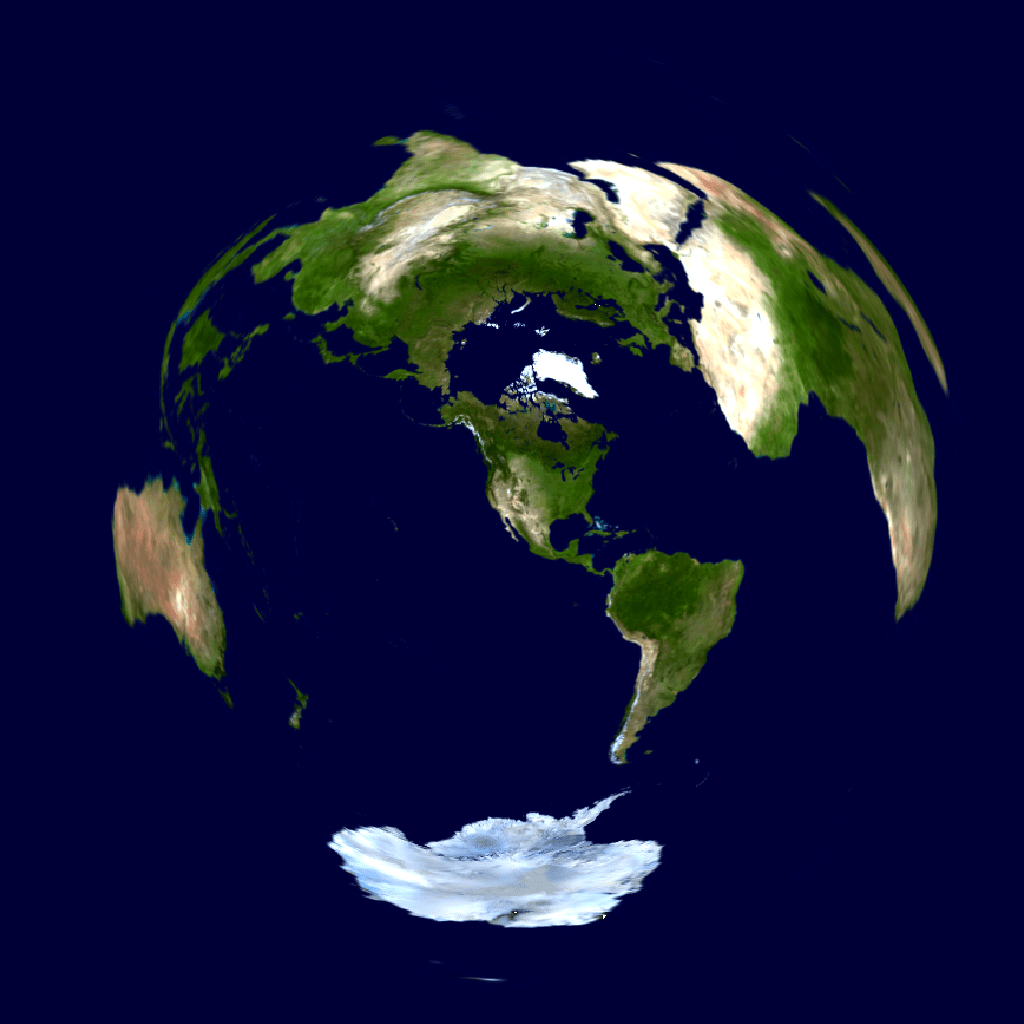
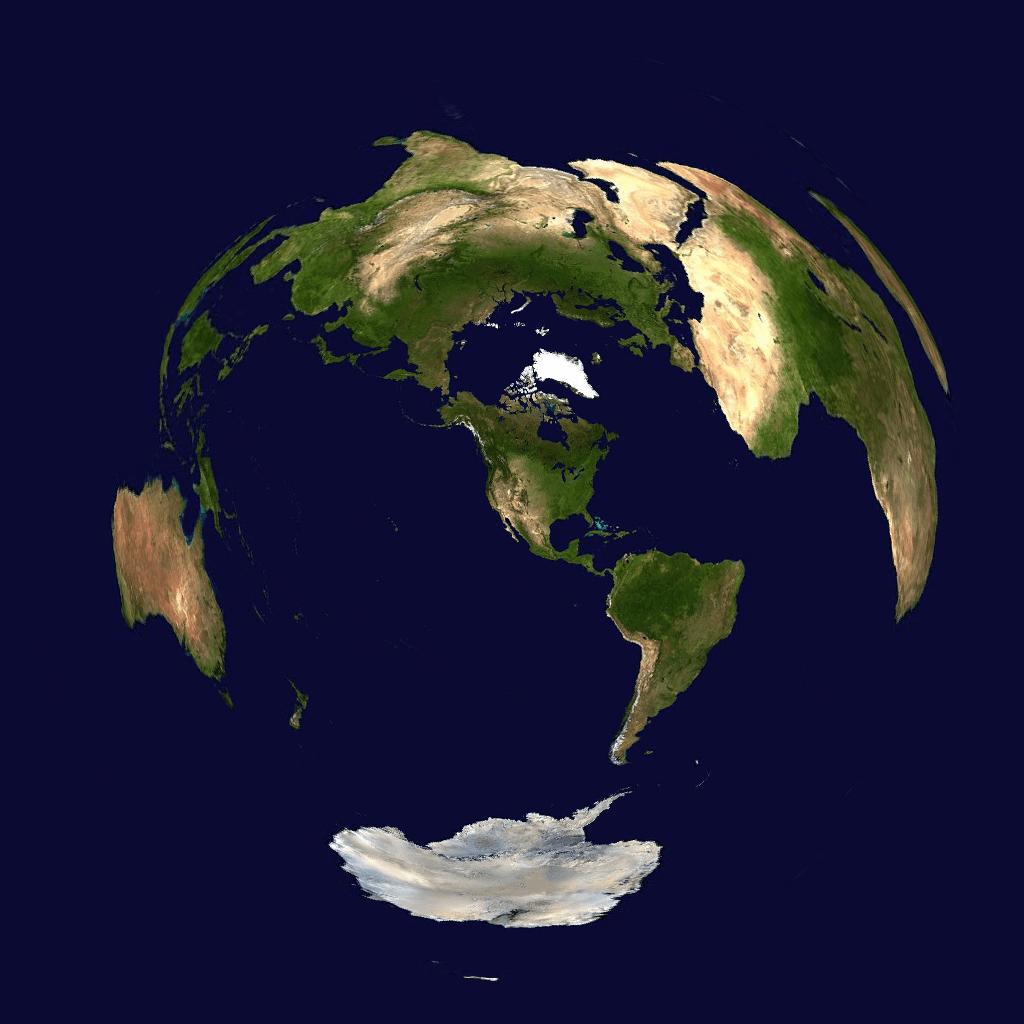
assets

diff --git a/app/src/main/java/com/forrestguice/suntimes/mappack/SuntimesMapAssets.java b/app/src/main/java/com/forrestguice/suntimes/mappack/SuntimesMapAssets.java
@@ -223,7 +223,7 @@ public class SuntimesMapAssets
                                 Log.d("MapProvider", "initialized: " + item.getID());
 
                             } else {
-                                Log.w("MapProvider", "Item assets for " + mapID + " not found! " + item.getUri());
+                                Log.e("MapProvider", "Item assets for " + mapID + " not found! " + item.getUri());
                             }
                         } else {
                             Log.e("MapProvider", "Item is invalid: " + mapID + "; ignoring...");
